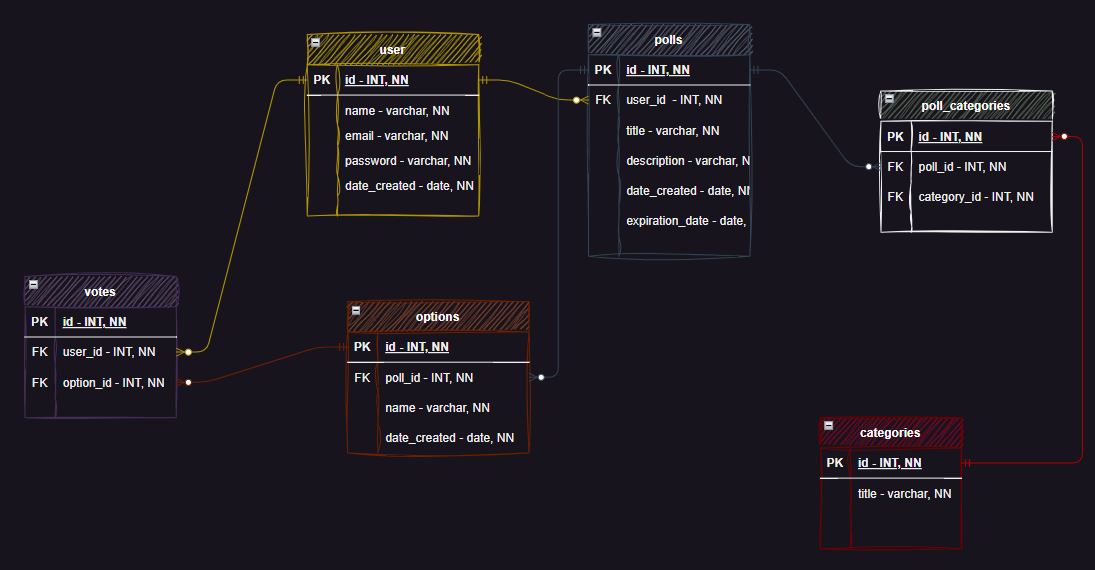
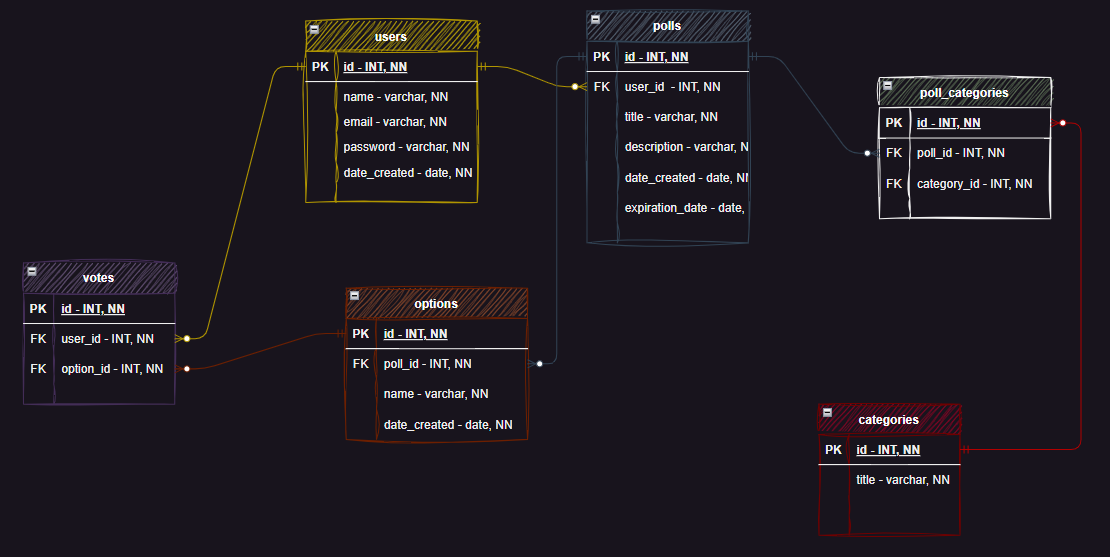
added seeds, seed files, and more models files

diff --git a/models/users.js b/models/users.js
@@ -1,0 +1,60 @@
+const bcrypt = require("bcypt");
+const sequelize = require("./config/connection");
+const { Model, DataTypes } = require("sequelize");
+
+class Users extends Model {
+  checkPassword(loginPw) {
+    return bcrypt.compareSync(loginPw, this.password);
+  }
+}
+
+Users.init(
+  {
+    id: {
+      type: DataTypes.INTEGER,
+      allowNull: false,
+      primaryKey: true,
+      autoIncrement: true,
+    },
+    name: {
+      type: DataTypes.STRING,
+      allowNull: false,
+    },
+    email: {
+      type: DataTypes.STRING,
+      allowNull: false,
+      validate: {
+        isEmail: true,
+      },
+    },
+    password: {
+      type: DataTypes.STRING,
+      allowNull: false,
+      validate: {
+        len: [5],
+      },
+    },
+  },
+  {
+    hooks: {
+      beforeCreate: async (newUsersData) => {
+        newUsersData.password = await bcrypt.hash(newUsersData.password, 10);
+        return newUsersData;
+      },
+      beforeUpdate: async (updatedUsersData) => {
+        updatedUsersData.password = await bcrypt.hash(
+          updatedUsersData.password,
+          10
+        );
+        return updatedUsersData;
+      },
+    },
+    sequelize,
+    timestamps: false,
+    freezeTableName: true,
+    underscored: true,
+    modelName: "users",
+  }
+);
+
+module.exports = Users;

diff --git a/models/index.js b/models/index.js
@@ -1,0 +1,58 @@
+const Categories = require("./categories");
+const Options = require("./options");
+const Polls = require("./polls");
+const PollCategories = require("./polls-categories");
+const Users = require("./users");
+const Votes = require("./votes");
+
+// Votes belongTo Users
+Votes.belongsTo(Users, {
+  foreignKey: "user_id",
+});
+
+// Users hasMany Votes
+Users.hasMany(Votes, {
+  onDelete: "SET NULL"
+});
+
+// Votes belongTo Options
+Votes.belongsTo(Options, {
+  foreignKey: "option_id",
+});
+
+// Options hasMany Votes
+Options.hasMany(Votes, {
+  onDelete: "SET NULL"
+});
+
+// Options belongTo Polls
+Options.belongTo(Polls, {
+  foreignKey: "poll_id",
+});
+
+// Polls hasMany Options
+Polls.hasMany(Options, {
+  onDelete: "SET NULL"
+});
+
+// Polls belongTo Users
+Polls.belongsTo(Users, {
+  foreignKey: "user_id"
+});
+
+// Users hasMany Polls
+Users.hasMany(Polls, {
+  onDelete: "SET NULL"
+});
+
+// Polls hasMany Categories through PollCategories
+Polls.hasMany(Categories, {
+  through: PollCategories,
+  foreignKey: "poll_id"
+});
+
+// Categories hasMany Polls through PollCategories
+Categories.hasMany(Polls, {
+  through: PollCategories,
+  foreignKey: "category_id"
+});

diff --git a/seeds/index.js b/seeds/index.js
@@ -1,0 +1,30 @@
+const seedCategories = require('.//categories-seeds');
+const seedOptions = require('./option-seeds');
+const seedPollCategories = require('./poll-categories-seeds');
+const seedPolls = require('./polls-seeds');
+const seedVotes = require('./votes-seeds');
+
+const sequelize = require('../config/connection');
+
+const seedAll = async () => {
+  await sequelize.sync({ force: true });
+  console.log('\n----- DATABASE SYNCED -----\n');
+  await seedCategories();
+  console.log('\n----- CATEGORIES SEEDED -----\n');
+
+  await seedOptions();
+  console.log('\n----- OPTIONS SEEDED -----\n');
+
+  await seedPollCategories();
+  console.log('\n----- POLL CATEGORIES SEEDED -----\n');
+
+  await seedPolls();
+  console.log('\n----- POLLS SEEDED -----\n');
+
+  await seedVotes();
+  console.log('\n----- VOTES SEEDED -----\n');
+
+  process.exit(0);
+};
+
+seedAll();

diff --git a/seeds/poll-categories-seeds.js b/seeds/poll-categories-seeds.js
@@ -1,0 +1,20 @@
+const { PollCategories } = require('../models');
+
+const pollCategoriesData = [
+  {
+
+  },
+  {
+
+  },
+  {
+
+  },
+  {
+
+  },
+];
+
+const seedPollCategories = () => PollCategories.bulkCreate(pollCategoriesData);
+
+module.exports = seedPollCategories;

diff --git a/seeds/categories-seeds.js b/seeds/categories-seeds.js
@@ -1,0 +1,20 @@
+const { Categories } = require('../models');
+
+const categoriesData = [
+  {
+
+  },
+  {
+
+  },
+  {
+
+  },
+  {
+
+  },
+];
+
+const seedCategories = () => Categories.bulkCreate(categoriesData);
+
+module.exports = seedCategories;

diff --git a/seeds/option-seeds.js b/seeds/option-seeds.js
@@ -1,0 +1,20 @@
+const { Options } = require('../models');
+
+const optionsData = [
+  {
+
+  },
+  {
+
+  },
+  {
+
+  },
+  {
+
+  },
+];
+
+const seedOptions = () => Options.bulkCreate(optionsData);
+
+module.exports = seedOptions;

diff --git a/seeds/polls-seeds.js b/seeds/polls-seeds.js
@@ -1,0 +1,20 @@
+const { Polls } = require('../models');
+
+const pollsData = [
+  {
+
+  },
+  {
+
+  },
+  {
+
+  },
+  {
+
+  },
+];
+
+const seedPolls = () => Polls.bulkCreate(pollsData);
+
+module.exports = seedPolls;

diff --git a/seeds/users-seeds.js b/seeds/users-seeds.js
@@ -1,0 +1,20 @@
+const { Users } = require('../models');
+
+const usersData = [
+  {
+
+  },
+  {
+
+  },
+  {
+
+  },
+  {
+
+  },
+];
+
+const seedUsers = () => Users.bulkCreate(usersData);
+
+module.exports = seedUsers;

diff --git a/seeds/votes-seeds.js b/seeds/votes-seeds.js
@@ -12,6 +12,6 @@ const votesData = [
 },
 ];
 
-const seedVotes = () => Votes.bultCreate(votesData);
+const seedVotes = () => Votes.bulkCreate(votesData);
 
 module.exports = seedVotes;
